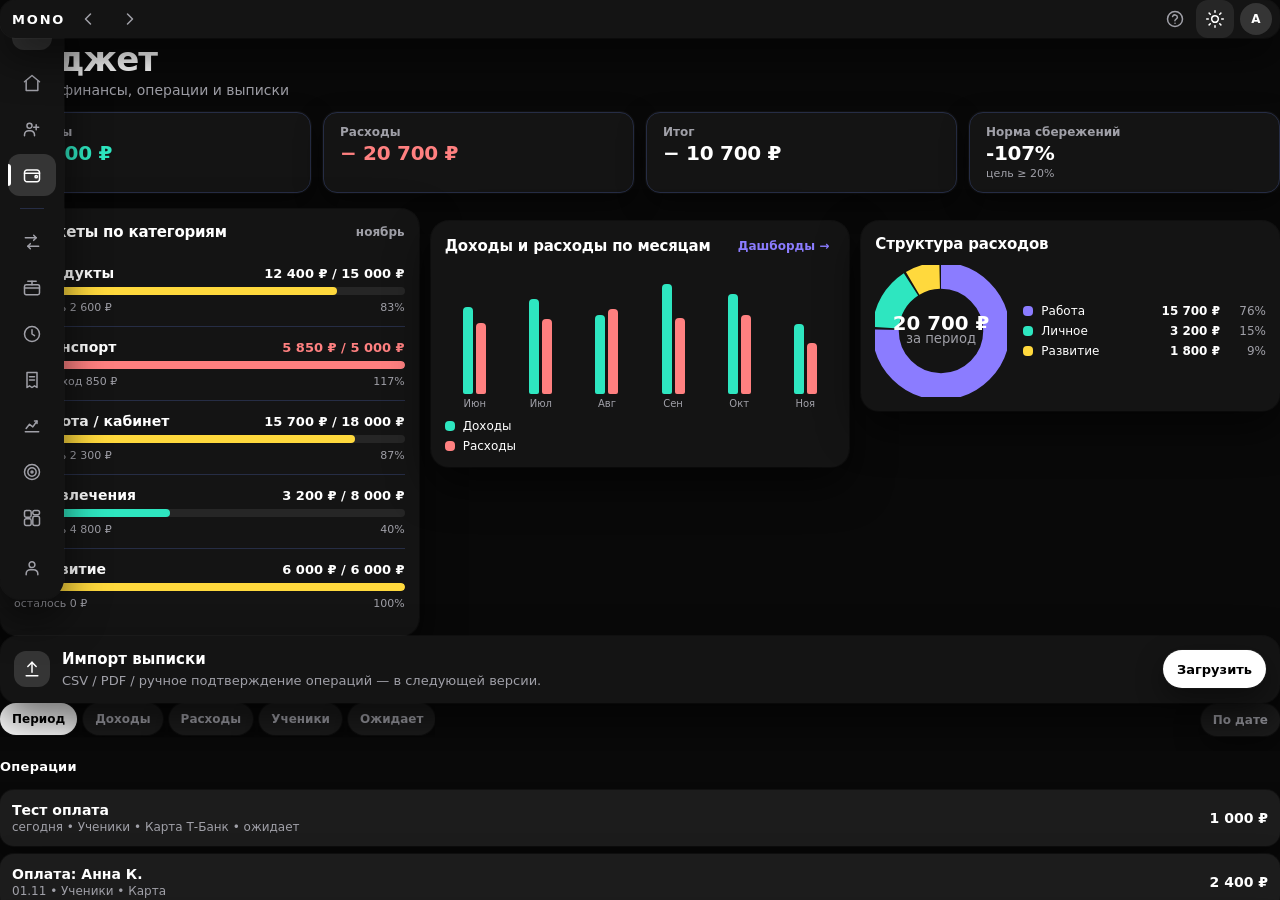
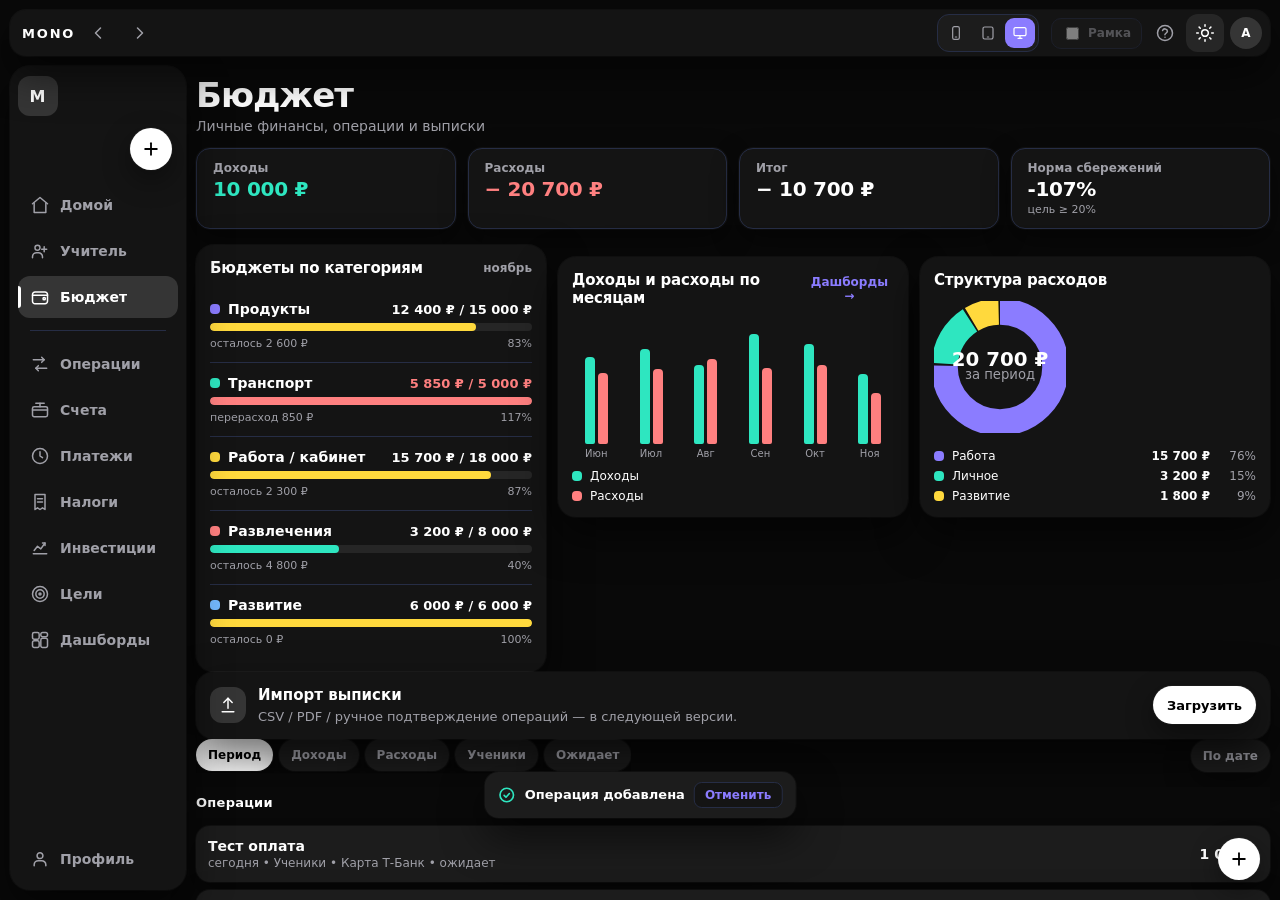
task snapshot 40714e9e-1383-41c4-98b1-676d92a161d6

diff --git a/src/css/components.css b/src/css/components.css
@@ -537,3 +537,163 @@ body.framed .app { min-height: 100%; height: 100%; }
 .fan-backdrop { z-index: 90 !important; }
 .sheet-backdrop { z-index: 120 !important; }
 .modal-backdrop { z-index: 190 !important; }
+
+/* ============================================================
+   ЭТАП 9 — FAB + quick actions (перенесено из layout-base.css:
+   блок лежал внутри незакрытого @media и не применялся нигде,
+   кроме десктоп-переопределений; теперь это глобальные стили)
+   ============================================================ */
+
+.fab {
+  position: absolute;
+  inset: 0;
+  width: var(--fab-size);
+  height: var(--fab-size);
+  border-radius: 50%;
+  background: var(--active-bg);
+  color: var(--active-text);
+  display: grid;
+  place-items: center;
+  box-shadow: var(--soft-shadow);
+  transition:
+transform 0.26s cubic-bezier(0.2, 0.8, 0.2, 1),
+background 0.18s ease,
+color 0.18s ease;
+  touch-action: manipulation;
+}
+
+.fab svg {
+  width: 20px;
+  height: 20px;
+  transition: transform 0.26s cubic-bezier(0.2, 0.8, 0.2, 1);
+}
+
+body.fan-open .fab {
+  transform: rotate(45deg);
+}
+
+.fan {
+  position: absolute;
+  right: 0;
+  bottom: 0;
+  width: 0;
+  height: 0;
+  z-index: 100;
+  pointer-events: none;
+}
+
+.fan-item {
+  position: absolute;
+  right: 1px;
+  bottom: 1px;
+  height: var(--pill-h);
+  min-width: var(--pill-h);
+  padding: 0 12px;
+  border-radius: 999px;
+  background: var(--surface-2);
+  color: var(--text);
+  box-shadow: var(--shadow);
+  display: inline-flex;
+  align-items: center;
+  gap: 8px;
+  white-space: nowrap;
+
+  opacity: 0;
+  visibility: hidden;
+  pointer-events: none;
+
+  transform: translate(0, 0) scale(0.82);
+  transform-origin: 100% 50%;
+
+  transition:
+transform 0.26s cubic-bezier(0.2, 0.8, 0.2, 1),
+opacity 0.18s ease,
+visibility 0s linear 0.26s,
+background 0.18s ease,
+color 0.18s ease;
+}
+
+.fan-item [data-icon] {
+  width: 18px;
+  height: 18px;
+}
+
+.fan-item svg {
+  width: 18px;
+  height: 18px;
+}
+
+.fan-item span:last-child {
+  font-size: 12px;
+  font-weight: 850;
+}
+
+.fan-item:hover,
+.fan-item:focus-visible {
+  background: var(--active-bg);
+  color: var(--active-text);
+  outline: none;
+}
+
+body.fan-open .fan-item {
+  opacity: 1;
+  visibility: visible;
+  pointer-events: auto;
+  transform: translate(var(--tx), var(--ty)) scale(1);
+  transition-delay: var(--d, 0ms), var(--d, 0ms), 0s, 0s, 0s;
+}
+
+/* ============================================================
+   Fan backdrop
+   ============================================================ */
+
+.fan-backdrop {
+  position: fixed;
+  inset: 0;
+  z-index: 90;
+
+  background: var(--backdrop);
+  backdrop-filter: blur(14px);
+  -webkit-backdrop-filter: blur(14px);
+
+  opacity: 0;
+  pointer-events: none;
+  transition: opacity 0.22s ease;
+}
+
+body.fan-open .fan-backdrop {
+  opacity: 1;
+  pointer-events: auto;
+}
+
+
+
+/* ============================================================
+   ЭТАП 9 — позиционирование веера.
+   Корень бага: в layout-base.css был незакрытый @media (max-width:767px) —
+   все правила после него (рейл, bottom-nav, FAB, модалки) применялись
+   только на мобильной ширине. На десктопе .desktop-fab оставался
+   display:none из базового блока, а JS всё равно кликал по скрытому
+   элементу => «element is outside of the viewport» в CI.
+   Поэтому здесь: принудительно включаем desktop-раскладку при ширине >=768px
+   (независимо от layout-base), и даём вееру нормальный контекст.
+   ============================================================ */
+@media (min-width: 768px) {
+  .toolbar { display: flex !important; }
+  .bottom-nav { display: none !important; }
+  .nav-history { display: grid !important; }
+  .desktop-fab {
+    display: block !important;
+    position: fixed !important;
+    right: 20px !important;
+    bottom: calc(20px + var(--safe-bottom)) !important;
+    top: auto !important; left: auto !important;
+    z-index: 100;
+  }
+}
+.fab-wrap { position: relative; width: var(--fab-size); height: var(--fab-size); }
+
+/* в рамке устройства (dev-frame) оверлеи режутся border-radius рамки:
+   поднимаем z-index поверх шапки/рейла, но ниже модалок и выхода из рамки */
+body.framed .fan-backdrop { z-index: 250 !important; }
+body.framed .sheet-backdrop { z-index: 260 !important; }

diff --git a/src/css/layout-base.css b/src/css/layout-base.css
@@ -818,128 +818,6 @@
       z-index: 100;
     }
 
-    .fab {
-      position: absolute;
-      inset: 0;
-      width: var(--fab-size);
-      height: var(--fab-size);
-      border-radius: 50%;
-      background: var(--active-bg);
-      color: var(--active-text);
-      display: grid;
-      place-items: center;
-      box-shadow: var(--soft-shadow);
-      transition:
-        transform 0.26s cubic-bezier(0.2, 0.8, 0.2, 1),
-        background 0.18s ease,
-        color 0.18s ease;
-      touch-action: manipulation;
-    }
-
-    .fab svg {
-      width: 20px;
-      height: 20px;
-      transition: transform 0.26s cubic-bezier(0.2, 0.8, 0.2, 1);
-    }
-
-    body.fan-open .fab {
-      transform: rotate(45deg);
-    }
-
-    .fan {
-      position: absolute;
-      right: 0;
-      bottom: 0;
-      width: 0;
-      height: 0;
-      z-index: 100;
-      pointer-events: none;
-    }
-
-    .fan-item {
-      position: absolute;
-      right: 1px;
-      bottom: 1px;
-      height: var(--pill-h);
-      min-width: var(--pill-h);
-      padding: 0 12px;
-      border-radius: 999px;
-      background: var(--surface-2);
-      color: var(--text);
-      box-shadow: var(--shadow);
-      display: inline-flex;
-      align-items: center;
-      gap: 8px;
-      white-space: nowrap;
-
-      opacity: 0;
-      visibility: hidden;
-      pointer-events: none;
-
-      transform: translate(0, 0) scale(0.82);
-      transform-origin: 100% 50%;
-
-      transition:
-        transform 0.26s cubic-bezier(0.2, 0.8, 0.2, 1),
-        opacity 0.18s ease,
-        visibility 0s linear 0.26s,
-        background 0.18s ease,
-        color 0.18s ease;
-    }
-
-    .fan-item [data-icon] {
-      width: 18px;
-      height: 18px;
-    }
-
-    .fan-item svg {
-      width: 18px;
-      height: 18px;
-    }
-
-    .fan-item span:last-child {
-      font-size: 12px;
-      font-weight: 850;
-    }
-
-    .fan-item:hover,
-    .fan-item:focus-visible {
-      background: var(--active-bg);
-      color: var(--active-text);
-      outline: none;
-    }
-
-    body.fan-open .fan-item {
-      opacity: 1;
-      visibility: visible;
-      pointer-events: auto;
-      transform: translate(var(--tx), var(--ty)) scale(1);
-      transition-delay: var(--d, 0ms), var(--d, 0ms), 0s, 0s, 0s;
-    }
-
-    /* ============================================================
-       Fan backdrop
-       ============================================================ */
-
-    .fan-backdrop {
-      position: fixed;
-      inset: 0;
-      z-index: 90;
-
-      background: var(--backdrop);
-      backdrop-filter: blur(14px);
-      -webkit-backdrop-filter: blur(14px);
-
-      opacity: 0;
-      pointer-events: none;
-      transition: opacity 0.22s ease;
-    }
-
-    body.fan-open .fan-backdrop {
-      opacity: 1;
-      pointer-events: auto;
-    }
-
     /* ============================================================
        Help modal
        ============================================================ */
